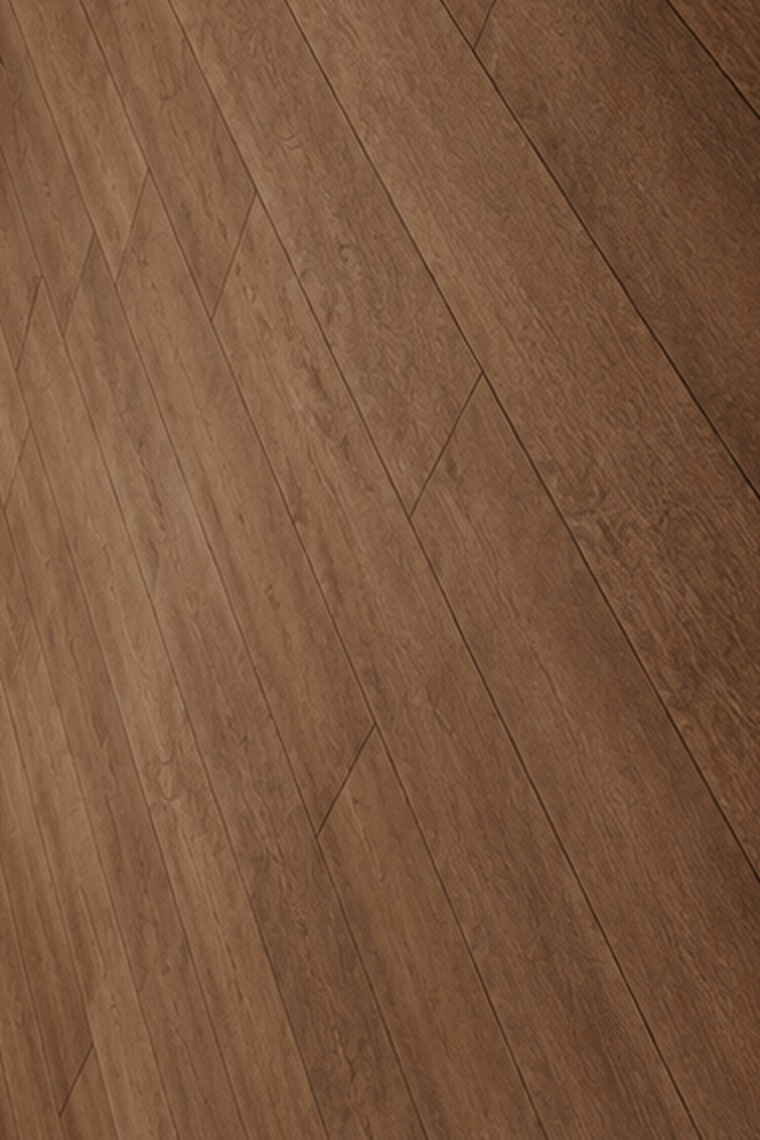
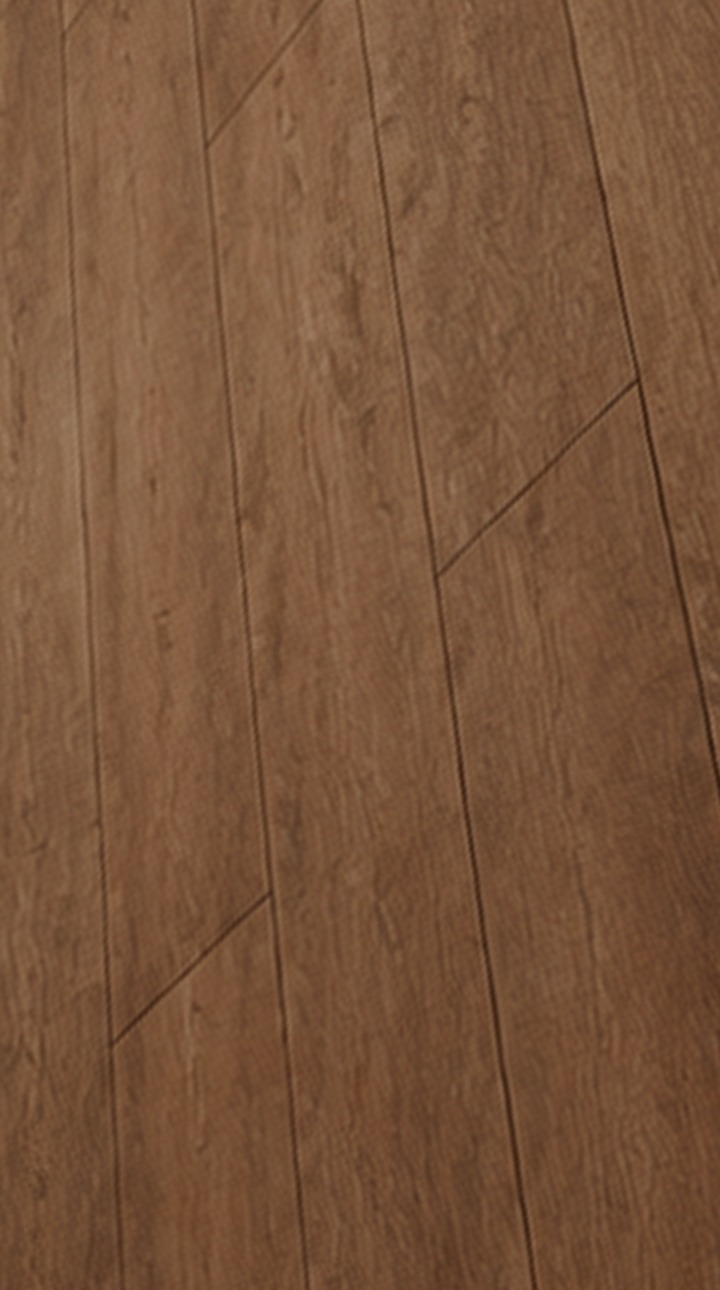
Match materials collage to the zorge9 reference plate
Unclip the block's 3D side face, add a lit top face to the walnut
plinth, rest the glass on it, and retune offsets; add the new stone
and nero-veined assets.

diff --git a/app/globals.css b/app/globals.css
@@ -268,17 +268,33 @@ sup { font-size: 12px; letter-spacing: 0.36px; vertical-align: super; }
 .materials__item { position: absolute; }
 /* geometry traced off the zorge9 /style plate: slab behind, block in front of
    it, disc on the right with the plinth over it, metal and glass on top */
-.materials__item--slab   { width: 18vw;   height: 47vh;  left: 43%; top: 1vh;  z-index: 1; }
-.materials__item--disc   { width: 18.5vw; height: 18.5vw; left: 61%; top: 6vh; border-radius: 50%; z-index: 2; }
+.materials__item--slab   { width: 18vw;   height: 66vh;  left: 43%; top: 1vh;  z-index: 1; }
+.materials__item--disc   { width: 18.5vw; height: 18.5vw; left: 61%; top: 8vh; border-radius: 50%; z-index: 2; }
 .materials__item--disc img { object-position: 100% 100%; }
-.materials__item--block  { width: 16.5vw; height: 49vh;  left: 30%; top: 10vh; z-index: 3; }
-.materials__item--plinth { width: 19vw;   height: 34vh;  left: 56%; top: 31vh; z-index: 4; }
+/* overflow visible: the ::before side face lives outside the figure box and
+   the global figure rule would clip it */
+.materials__item--block  { width: 11.6vw; height: 52vh; left: 34%; top: 11vh; z-index: 3; perspective: 1400px; overflow: visible; }
+/* the reference block is a solid, not a plate — a receding side face in light
+   grey. rotateY under the parent perspective foreshortens it into a trapezoid
+   on its own; a skew would give a parallelogram and read flat */
+.materials__item--block::before {
+  content: ''; position: absolute; top: 0; bottom: 0; right: 100%; width: 8vw;
+  transform-origin: right center; transform: rotateY(-58deg);
+  background: linear-gradient(90deg, #d4d4d0, #b0b0ac);
+}
+.materials__item--plinth { width: 19vw; height: 34vh; left: 56%; top: 38vh; z-index: 4; perspective: 1400px; overflow: visible; }
+/* the reference wood is a solid too — a lit top face the glass rests on */
+.materials__item--plinth::before {
+  content: ''; position: absolute; left: 0; right: 0; bottom: 100%; height: 7vh;
+  transform-origin: center bottom; transform: rotateX(-62deg);
+  background: linear-gradient(180deg, #b98a5e, #8f6440);
+}
 .materials__item--block, .materials__item--plinth { box-shadow: 0 3vh 6vh rgba(0, 0, 0, 0.16); }
 /* brass half-disc sinking behind the block, bottom left of the plate.
    Polished brass, not mosaic: the reference plate carries a smooth metal
    sweep here, and the joint grid was the one element reading as a tile. */
 .materials__item--brass  {
-  width: 17vw; height: 17vw; left: 21%; top: 38vh; border-radius: 50%; z-index: 1;
+  width: 17vw; height: 17vw; left: 21%; top: 47vh; border-radius: 50%; z-index: 1;
   background:
     radial-gradient(circle at 66% 28%, rgba(255, 253, 240, 0.9), rgba(255, 253, 240, 0) 52%),
     linear-gradient(118deg, #8a6829, #c49f52 28%, #f3e2ab 50%, #d8b268 68%, #96712f);
@@ -286,7 +302,7 @@ sup { font-size: 12px; letter-spacing: 0.36px; vertical-align: super; }
 /* polished, not matt: banded metal underneath, specular hot spot and warm
    bounce light on top — a flat radial gradient reads as painted plaster */
 .materials__item--sphere {
-  width: 6vw; height: 6vw; left: 43%; top: 16vh; border-radius: 50%; z-index: 5;
+  width: 6vw; height: 6vw; left: 43%; top: 18vh; border-radius: 50%; z-index: 5;
   background:
     radial-gradient(circle at 31% 25%, rgba(255, 255, 255, 0.95) 0 4%, rgba(255, 255, 255, 0) 28%),
     radial-gradient(circle at 70% 78%, rgba(255, 236, 178, 0.6), rgba(255, 236, 178, 0) 46%),
@@ -295,7 +311,7 @@ sup { font-size: 12px; letter-spacing: 0.36px; vertical-align: super; }
 }
 /* glass cylinder laid across the plinth */
 .materials__item--cyl {
-  width: 28vw; height: 6vh; left: 52%; top: 34vh; border-radius: 3vh; z-index: 5;
+  width: 28vw; height: 7.4vh; left: 52%; top: 31vh; border-radius: 3.7vh; z-index: 5;
   background: linear-gradient(180deg,
     rgba(255, 255, 255, 0.92), rgba(186, 195, 204, 0.55) 38%,
     rgba(88, 98, 110, 0.5) 68%, rgba(255, 255, 255, 0.85));

diff --git a/app/page.tsx b/app/page.tsx
@@ -190,10 +190,11 @@ export default function Home() {
         <section className="section materials ui-light" data-polarity="light">
           <h2 className="materials__label h-display reveal-lines">Premium<br />Materials</h2>
           <div className="materials__stage">
-            {/* tone map traced off the reference plate: dark block in front, white
-                statuario panel behind it, black disc right, warm body bottom-right.
-                Nero is the only dark slab we own, so it carries both the block and
-                the disc — different crops, see --disc img object-position. */}
+            {/* tone map traced off the reference plate: dark stone block in front,
+                white statuario panel behind it, veined black disc right, walnut
+                plinth over it. The dark stone, the veined black and the walnut are
+                crops lifted out of shots we already ship — see the note in the
+                image folder; nothing here is a stock texture. */}
             {/* no img-reveal here — the collage reads as one plate, so the four
                 slabs land together; motion comes from the levitation loop in
                 Motion.tsx (mouse lerp per item + scroll drift on the stage) */}
@@ -204,13 +205,13 @@ export default function Home() {
                 plate needs no render assets we do not own */}
             <span className="materials__item materials__item--brass" data-depth="0.5" aria-hidden="true" />
             <figure className="materials__item materials__item--disc" data-depth="0.6">
-              <img src="/img/slab_nero.jpg" alt="Nero Marquina black marble-look disc" />
+              <img src="/img/slab_nero_veined.jpg" alt="Veined black marble-look porcelain disc" />
             </figure>
             <figure className="materials__item materials__item--block" data-depth="1">
-              <img src="/img/slab_nero.jpg" alt="Nero Marquina black marble-look slab" />
+              <img src="/img/stone_dark.jpg" alt="Charcoal stone-look porcelain block" />
             </figure>
             <figure className="materials__item materials__item--plinth" data-depth="0.85">
-              <img src="/img/slab_armani.jpg" alt="Armani Beige marble-look porcelain plinth" />
+              <img src="/img/wood_walnut.jpg" alt="Walnut wood-look porcelain plank plinth" />
             </figure>
             <span className="materials__item materials__item--sphere" data-depth="1.15" aria-hidden="true" />
             <span className="materials__item materials__item--cyl" data-depth="1.05" aria-hidden="true" />
